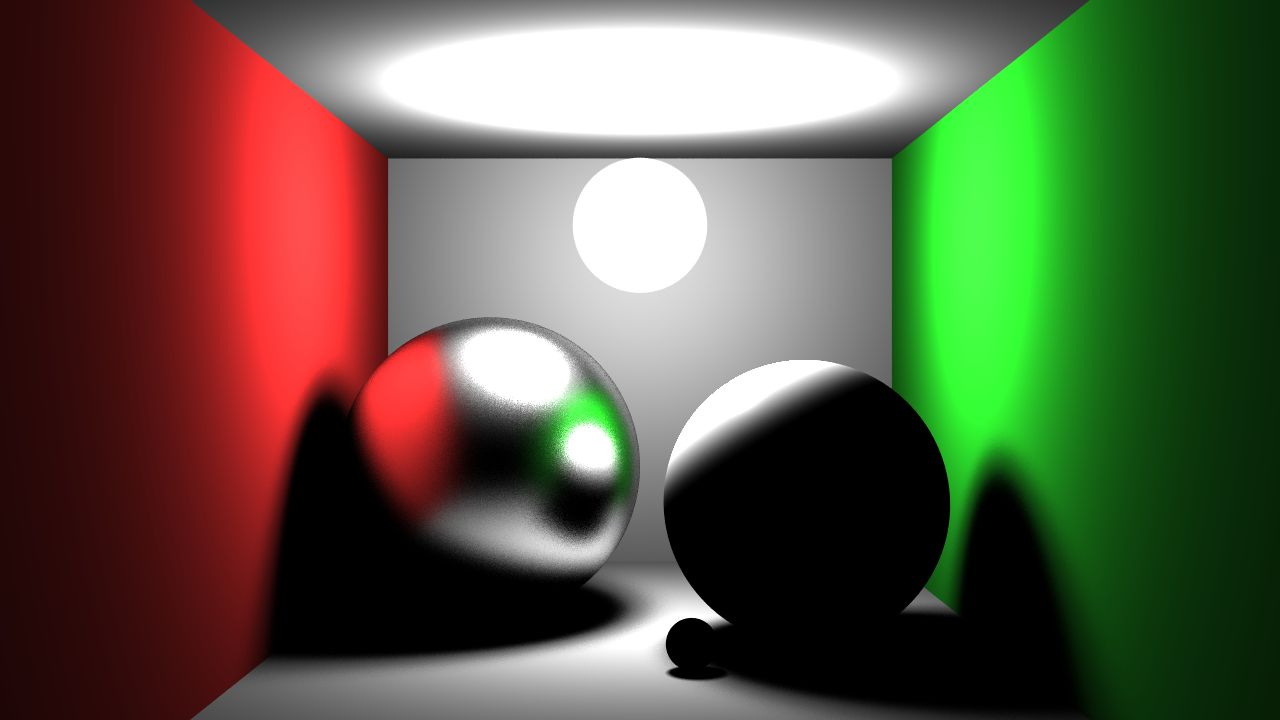
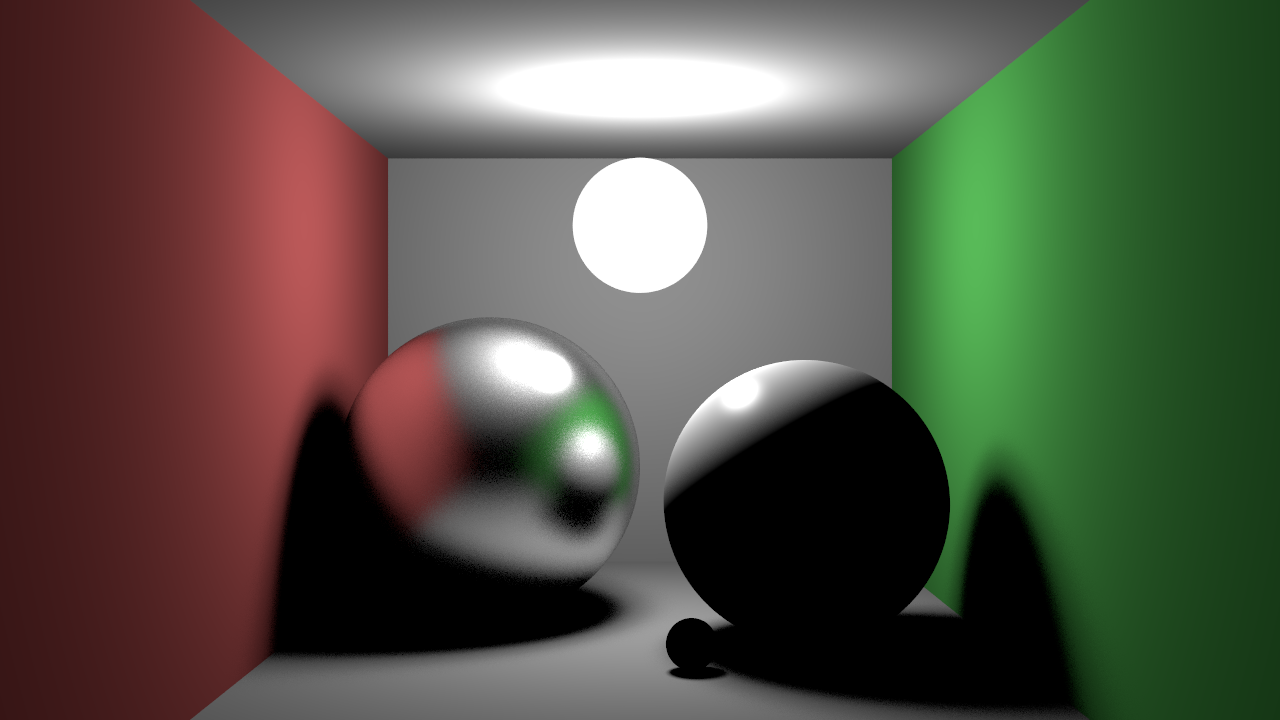
Added energy conserving blinn matreial

diff --git a/src/materials.cpp b/src/materials.cpp
@@ -23,11 +23,6 @@ Color MtlBlinn::Shade(ShadeInfo const &shadeInfo) const
         const Light* const light{ shadeInfo.GetLight(i) };
         Vec3f lightDir;
         Color lightIntensity{ light->Illuminate(shadeInfo, lightDir) };
-        if (light->IsRenderable())
-        {
-
-        }
-
         if (light->IsAmbient())
         {
             finalColor += diffuse.Eval(shadeInfo.UVW()) * lightIntensity;
@@ -38,11 +33,11 @@ Color MtlBlinn::Shade(ShadeInfo const &shadeInfo) const
 
         if (geometryTerm < 0.0f) continue;
 
-        finalColor += diffuse.Eval(shadeInfo.UVW()) * lightIntensity * geometryTerm;
+        finalColor += (1.0f / M_PI) * diffuse.Eval(shadeInfo.UVW()) * lightIntensity * geometryTerm;
 
         const Vec3f halfway{ (shadeInfo.V() + lightDir).GetNormalized() };
         const float blinnTerm{ std::max(0.0f, normal.Dot(halfway)) };
-        finalColor += specular.GetValue() * pow(blinnTerm, glossiness.GetValue()) * lightIntensity * geometryTerm;
+        finalColor += ((glossiness.GetValue() + 2) / (8.0f * M_PI)) * specular.GetValue() * pow(blinnTerm, glossiness.GetValue()) * lightIntensity * geometryTerm;
     }
 
     if (!shadeInfo.CanBounce())
